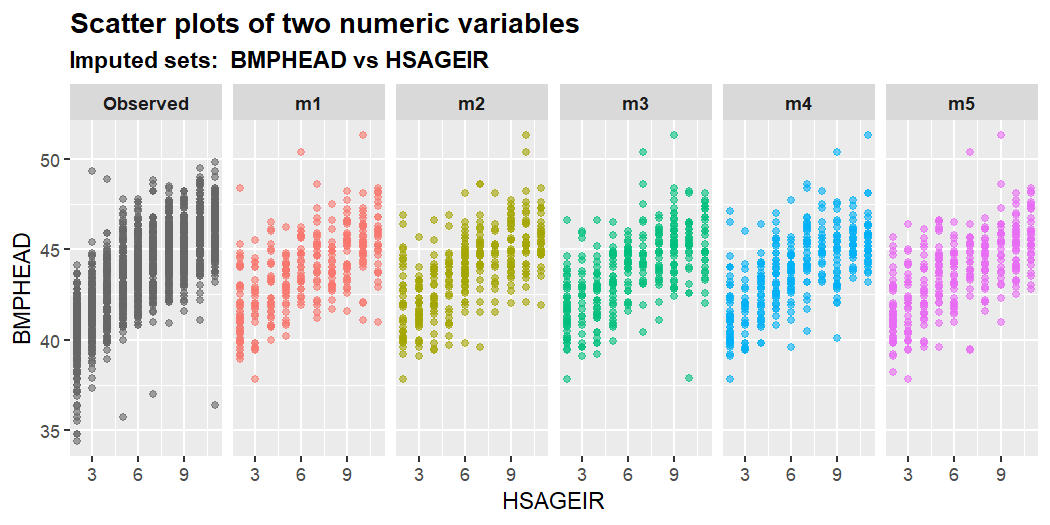
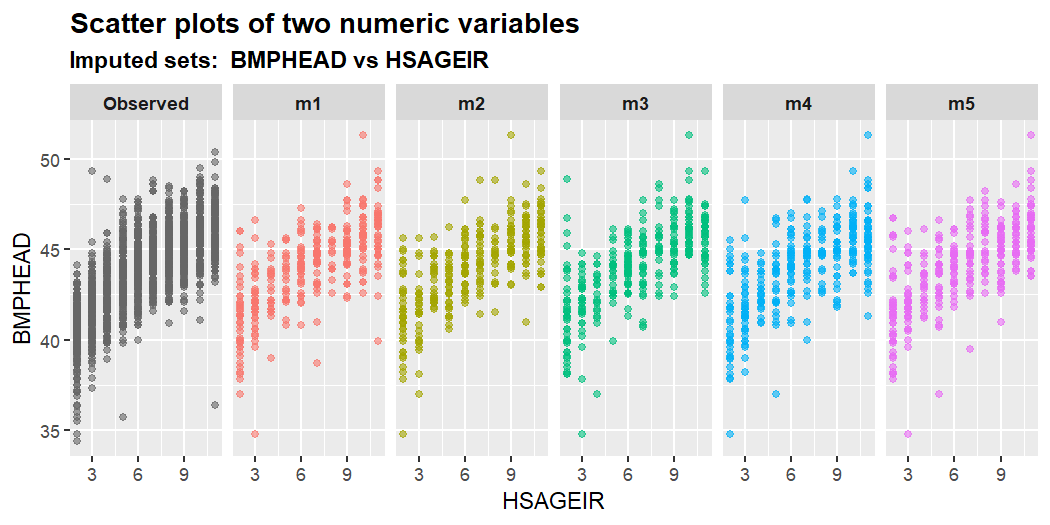
update
readme

diff --git a/README.md b/README.md
@@ -8,7 +8,7 @@
 [![](https://img.shields.io/badge/Made%20With-R-9cf)](https://github.com/agnesdeng/mixgb)
 [![](https://img.shields.io/badge/CRAN-0.1.0-9cf)](https://github.com/agnesdeng/mixgb)
 [![](https://cranlogs.r-pkg.org/badges/mixgb)](https://cran.r-project.org/package=mixgb)
-[![](https://img.shields.io/badge/github-1.0.0-brightgreen)](https://github.com/agnesdeng/mixgb)
+[![](https://img.shields.io/badge/github-1.0.1-brightgreen)](https://github.com/agnesdeng/mixgb)
 <!-- badges: end -->
 
 `mixgb` is a scalable multiple imputation framework based on XGBoost,
@@ -16,16 +16,16 @@ subsampling and predictive mean matching. The proposed framework is
 implemented in an R package `mixgb`. We have shown that our framework
 obtains less biased estimates and reflects appropriate imputation
 variability, while achieving high computational efficiency. For more
-details, please check our paper <https://arxiv.org/abs/2106.01574>. (Our
-package has been revised and updated since the preprint was posted.
-Simulation code in the original supplementary files may not run as
-expected. Revised paper and adapted code will be updated soon.)
+details, please check our paper <https://arxiv.org/abs/2106.01574>.
 
 ## New updates
 
-**January 2022** \* Major change of default settings for mixgb(). We use
-subsampling (`subsample = 0.7`) instead of bootstrapping
-`bootstrap = FALSE` by default. After more investigations, we found that
+**January 2023**
+
+-   Major change of default settings for mixgb().
+
+Instead of using bootstrapping, we have changed to use subsampling with
+`subsample = 0.7` by default. After more investigations, we found that
 even though bootstrapping perform well in general settings, it did add
 bias for under some scenarios. We now use subsampling instead of
 bootstrapping as our default setting.
@@ -161,13 +161,19 @@ We can also customise imputation settings:
 
 -   The number of imputation iterations `maxit`
 
+-   XGBoost hyperparameters and verbose settings. `xgb.params`,
+    `nrounds`, `early_stopping_rounds`, `print_every_n` and `verbose`.
+
+-   Subsampling ratio. By default, `subsample = 0.7`. Users can change
+    this value under the `xgb.params` argument.
+
+-   Predictive mean matching settings `pmm.type`, `pmm.k` and
+    `pmm.link`.
+
 -   Whether to convert ordinal factors to integer (imputation process
     will be faster) `ordinalAsInteger`
 
 -   Whether to use bootstrapping `bootstrap`
-
--   Predictive mean matching settings `pmm.type`, `pmm.k` and
-    `pmm.link`.
 
 -   Initial imputation methods for different types of variables
     `initial.num`, `initial.int` and `initial.fac`.
@@ -175,18 +181,15 @@ We can also customise imputation settings:
 -   Whether to save models for imputing newdata `save.models` and
     `save.vars`.
 
--   XGBoost hyperparameters and verbose settings. `xgb.params`,
-    `nrounds`, `early_stopping_rounds`, `print_every_n` and `verbose`.
-
 ``` r
 # Use mixgb with chosen settings
-params <- list(max_depth = 6, gamma = 0, eta = 0.3, min_child_weight = 1,
+params <- list(max_depth = 3, gamma = 0, eta = 0.3, min_child_weight = 1,
     subsample = 0.7, colsample_bytree = 1, colsample_bylevel = 1,
     colsample_bynode = 1, nthread = 4, tree_method = "auto",
     gpu_id = 0, predictor = "auto")
 
 imputed.data <- mixgb(data = nhanes3_newborn, m = 5, maxit = 1,
-    ordinalAsInteger = TRUE, bootstrap = FALSE, pmm.type = "auto",
+    ordinalAsInteger = FALSE, bootstrap = FALSE, pmm.type = "auto",
     pmm.k = 5, pmm.link = "prob", initial.num = "normal", initial.int = "mode",
     initial.fac = "mode", save.models = FALSE, save.vars = NULL,
     xgb.params = params, nrounds = 100, early_stopping_rounds = 10,
@@ -200,7 +203,7 @@ It may seem daunting to tune a large set of hyperparameters, but often
 we can narrow down the search as many hyperparameters are correlated. In
 our package, we have a function `mixgb_cv()` to tune `nrounds`. There is
 no default `nrounds` value in `XGBoost,` so we need to specify it. The
-default `nrounds` in `mixgb` is 50. However, we recommend using
+default `nrounds` in `mixgb` is 100. However, we recommend using
 `mixgb_cv()` to find the optimal `nrounds` first.
 
 ``` r
@@ -208,7 +211,7 @@ cv.results <- mixgb_cv(data = nhanes3_newborn, verbose = FALSE)
 cv.results$response
 #> [1] "BMPSB1"
 cv.results$best.nrounds
-#> [1] 12
+#> [1] 14
 ```
 
 By default, `mixgb_cv()` will randomly choose an incomplete variable as
@@ -225,7 +228,7 @@ cv.results <- mixgb_cv(data = nhanes3_newborn, nfold = 10, nrounds = 100,
         "BMPTR1", "BMPTR2", "BMPWT"), verbose = FALSE)
 
 cv.results$best.nrounds
-#> [1] 17
+#> [1] 19
 ```
 
 Let’s just try setting `nrounds = cv.results$best.nrounds` in `mixgb()`
@@ -364,14 +367,14 @@ train.imputed <- mixgb.obj$imputed.data
 # the 5th imputed dataset
 head(train.imputed[[5]])
 #>    HSHSIZER HSAGEIR HSSEX DMARACER DMAETHNR DMARETHN BMPHEAD BMPRECUM BMPSB1
-#> 1:        7       2     1        1        1        3    46.0     74.0    7.0
+#> 1:        7       2     1        1        1        3    42.1     64.9    6.8
 #> 2:        4       3     2        2        3        2    42.6     67.1    8.8
 #> 3:        3       9     2        2        3        2    46.5     64.3    8.6
 #> 4:        3       9     2        1        3        1    46.2     68.5   10.8
 #> 5:        5       4     1        1        3        1    44.7     63.0    6.0
 #> 6:        5      10     1        1        3        1    45.2     72.0    5.4
 #>    BMPSB2 BMPTR1 BMPTR2 BMPWT DMPPIR HFF1 HYD1
-#> 1:    6.8    8.3    8.2 10.45  1.701    2    1
+#> 1:    7.8    9.0   10.0  8.45  1.701    2    1
 #> 2:    8.8   13.3   12.2  8.70  0.102    2    1
 #> 3:    8.0   10.4    9.2  8.00  0.359    1    3
 #> 4:   10.0   16.6   16.0  8.98  0.561    1    3
@@ -437,8 +440,8 @@ GPU-realted arguments include `gpu_id` and `predictor`. By default,
 `gpu_id = 0` and `predictor = "auto"`.
 
 ``` r
-params <- list(max_depth = 6, gamma = 0.1, eta = 0.3, min_child_weight = 1,
-    subsample = 1, colsample_bytree = 1, colsample_bylevel = 1,
+params <- list(max_depth = 3, gamma = 0.1, eta = 0.3, min_child_weight = 1,
+    subsample = 0.7, colsample_bytree = 1, colsample_bylevel = 1,
     colsample_bynode = 1, nthread = 4, tree_method = "gpu_list",
     gpu_id = 0, predictor = "auto")
 

diff --git a/NEWS.md b/NEWS.md
@@ -1,5 +1,16 @@
+# mixgb 1.0.1
+  * Current default settings for mixgb().
+    -  Subsampling (`subsample = 0.7`) 
+    -  No bootstrapping (`bootstrap = FALSE`)
+  
 # mixgb 1.0.0.9000
-  - Major change of default settings for mixgb(). We use subsampling (`subsample = 0.7`) instead of bootstrapping `bootstrap = FALSE` by default. After more investigations, we found that even though bootstrapping perform well in general settings, it did add bias for under some scenarios. We now use subsampling instead of bootstrapping as our default setting.
+ * Major change of default settings for mixgb(). 
+  
+   Instead of using bootstrapping, we have changed to use subsampling with
+`subsample = 0.7` by default. After more investigations, we found that
+even though bootstrapping perform well in general settings, it did add
+bias for under some scenarios. We now use subsampling instead of
+bootstrapping as our default setting.
 
 # mixgb 0.1.1
 * Minor bug fix for the function createNA()
